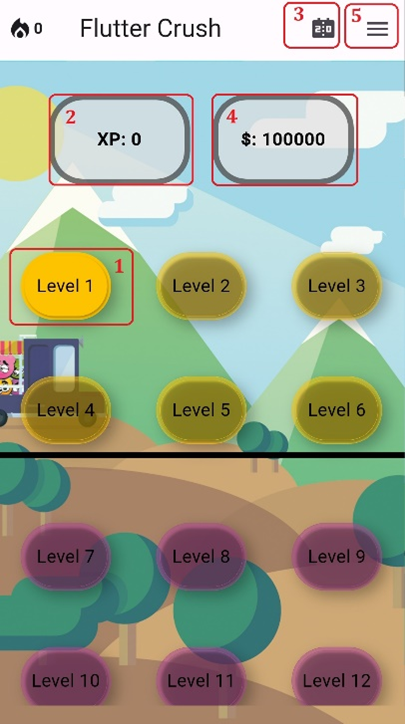
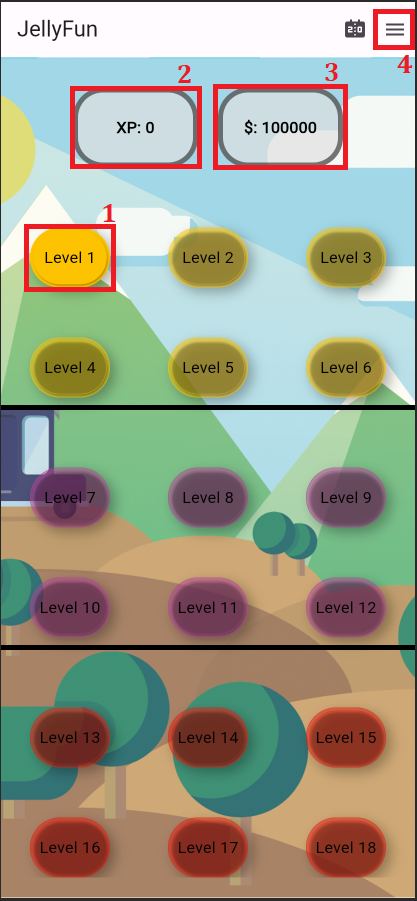
Jellies now not -1 possible anymore

diff --git a/lib/game_widgets/game_level_button.dart b/lib/game_widgets/game_level_button.dart
@@ -36,7 +36,6 @@ class GameLevelButton extends StatelessWidget {
   final lvlPrice = 500;
   static const tntPrice = 100;
   static const minePrice = 200;
-  static const wrappedPrice = 1000;
 
   @override
   Widget build(BuildContext context) {
@@ -127,7 +126,6 @@ class GameLevelButton extends StatelessWidget {
             ? AlertDialog(
                 title: const Text('Level starten'),
                 content: const Wrap(
-                  //ToDo: Remove Const, and enable power ups
                   children: [
                     Text('Wollen Sie das aktuelle Level starten?'),
                   ],
@@ -149,8 +147,7 @@ class GameLevelButton extends StatelessWidget {
                     Align(
                       alignment: Alignment.center,
                       child: Text(
-                        'Um einen Booster auszuwählen, klicken Sie auf den entsprechenden Button, '
-                        'oder starten Sie das Spiel ohne einen Booster indem Sie auf "Spiel starten" klicken',
+                        'Um einen Booster auszuwählen klicke bitte auf den entsprechenden Button oder starte das Spiel ohne Booster indem du auf "Spiel starten" klickst.',
                         textAlign: TextAlign.center, // Center align the text
                       ),
                     )
@@ -203,34 +200,34 @@ class GameLevelButton extends StatelessWidget {
 
   Future<void> buyPowerUp(item, powerUpPrice, CoinBloc coinBloc, ReportingBloc reportingBloc,
       GameBloc gameBloc, BuildContext context) async {
-    if (coinBloc.state.amount >= powerUpPrice) {
-      final SharedPreferences prefs = await SharedPreferences.getInstance();
-      prefs.setString("powerUp", item);
-      if (item.contains("Clear")) {
-        prefs.setInt("stripeJelly", stripeJelly - 1);
-      } else if (item.contains("Rainbow")) {
-        prefs.setInt("buntJelly", buntJelly - 1);
-      }
+    final SharedPreferences prefs = await SharedPreferences.getInstance();
+    prefs.setString("powerUp", item);
+    if (item.contains("Clear") && stripeJelly > 0) {
+      prefs.setInt("stripeJelly", stripeJelly - 1);
+    } else if (item.contains("Rainbow") && buntJelly > 0) {
+      prefs.setInt("buntJelly", buntJelly - 1);
+    } else if (coinBloc.state.amount >= powerUpPrice) {
       coinBloc.add(RemoveCoinsEvent(powerUpPrice));
-      Navigator.pop(context, 'OK');
-      await openGame(reportingBloc, gameBloc, prefs, context);
     } else {
       showDialog(
           context: context,
           builder: (BuildContext context) => AlertDialog(
-                title: const Text('Nicht genug Münzen um dieses PowerUp zu kaufen'),
-                content: const Text('Sie können Münzen durch Spielen der Levels erhalten'),
-                elevation: 24,
-                shape: const RoundedRectangleBorder(
-                    borderRadius: BorderRadius.all(Radius.circular(16))),
-                actions: <Widget>[
-                  TextButton(
-                    onPressed: () => {Navigator.pop(context, 'Ok')},
-                    child: const Text('OK'),
-                  )
-                ],
-              ));
+            title: const Text('Nicht genug Münzen um dieses PowerUp zu kaufen'),
+            content: const Text('Sie können Münzen durch Spielen der Levels erhalten'),
+            elevation: 24,
+            shape: const RoundedRectangleBorder(
+                borderRadius: BorderRadius.all(Radius.circular(16))),
+            actions: <Widget>[
+              TextButton(
+                onPressed: () => {Navigator.pop(context, 'Ok')},
+                child: const Text('OK'),
+              )
+            ],
+          ));
+      return;
     }
+    Navigator.pop(context, 'OK');
+    await openGame(reportingBloc, gameBloc, prefs, context);
   }
 
   void showBuyLevelDialog(LevelBloc levelBloc, CoinBloc coinBloc,

diff --git a/lib/pages/home_page.dart b/lib/pages/home_page.dart
@@ -250,7 +250,9 @@ class _HomePageState extends State<HomePage>
                                                 borderRadius: 50.0,
                                                 levelNumber: levelNumber + 1,
                                                 color: darkPatternsState
-                                                        is DarkPatternsDeactivatedState
+                                                            is! DarkPatternsActivatedState &&
+                                                        darkPatternsState
+                                                            is! DarkPatternsCollectionState
                                                     ? AppColors.getColorLevel(1)
                                                     : AppColors.getColorLevel(levelNumber + 1),
                                                 buntJelly: buntJelly,
@@ -331,6 +333,7 @@ class _HomePageState extends State<HomePage>
                 },
                 child: ListTile(
                   enabled: true,
+                  //ToDo: change to dailyRewardsCollected
                   // enabled: !dailyRewardCollected,
                   leading: const Icon(Icons.card_giftcard),
                   title: const Text('Tägliche Belohnung'),
@@ -408,9 +411,9 @@ class _HomePageState extends State<HomePage>
       sp.setInt("buntJelly", buntJelly += todaysAmount);
     } else if (todaysType.contains('gestreift')) {
       sp.setInt("stripeJelly", stripeJelly += todaysAmount);
-    } else if (todaysType.contains("XP")){
+    } else if (todaysType.contains("XP")) {
       flutter_bloc.BlocProvider.of<XpBloc>(context).add(AddXpEvent(todaysAmount));
-    } else if (todaysType.contains("\$")){
+    } else if (todaysType.contains("\$")) {
       flutter_bloc.BlocProvider.of<CoinBloc>(context).add(AddCoinsEvent(todaysAmount));
     }
   }
@@ -442,17 +445,15 @@ class _HomePageState extends State<HomePage>
             title: const Text('Deine tägliche Belohnung'),
             content: todaysType.contains('Sonderjelly')
                 ? Wrap(children: [
-                    Text('Heute hast du $todaysAmount $todaysType'),
-                    todaysType.contains('bunt')
-                        ? Image.asset(
-                            'assets/images/bombs/rainbow_fish.png',
-                            height: 30,
-                          )
-                        : Image.asset(
-                            'assets/images/bombs/fish_1.png',
-                            height: 30,
-                          ),
-                    const Text(' erhalten. Komm morgen wieder!'),
+                    Text('Heute hast du $todaysAmount $todaysType erhalten. Komm morgen wieder!'),
+                    Center(
+                      child: Image.asset(
+                        todaysType.contains('bunt')
+                            ? 'assets/images/bombs/rainbow_fish.png'
+                            : 'assets/images/bombs/fish_1.png',
+                        height: 30,
+                      ),
+                    ),
                   ])
                 : Text('Heute hast du $todaysAmount $todaysType erhalten. Komm morgen wieder!'),
             actions: [

diff --git a/lib/controllers/unity/unity_screen.dart b/lib/controllers/unity/unity_screen.dart
@@ -54,7 +54,6 @@ class _UnityScreenState extends State<UnityScreen> {
   bool gameOver = false;
   late bool _gameOverReceived;
   bool fabVisible = true;
-  late StreamSubscription _gameOverSubscription;
 
   @override
   void initState() {
@@ -84,14 +83,10 @@ class _UnityScreenState extends State<UnityScreen> {
 
     // Now that the context is available, retrieve the gameBloc
     gameBloc = BlocProvider.of<GameBloc>(context);
-
-    // Listen to "game over" notification
-    _gameOverSubscription = gameIsOver.listen(showGameOver);
   }
 
   @override
   dispose() {
-    _gameOverSubscription.cancel();
     unityWidgetController?.dispose();
     super.dispose();
   }
@@ -209,23 +204,22 @@ class _UnityScreenState extends State<UnityScreen> {
     setState(() {
       fabVisible = false;
     });
+    var xpCoins = 0;
+    if (message is int) {
+      xpCoins = lvl * message;
+    } else {
+      xpCoins = lvl * int.parse(message.replaceAll(RegExp(r'[^0-9]'), ''));
+    }
     if (darkPatternsBloc.state is DarkPatternsActivatedState ||
         darkPatternsBloc.state is DarkPatternsRewardsState) {
-      var xpCoins = 0;
-      if (message is int) {
-        xpCoins = lvl * message;
-      } else {
-        xpCoins = lvl * int.parse(message.replaceAll(RegExp(r'[^0-9]'), ''));
-      }
       showFortuneWheel(xpCoins);
     } else if (darkPatternsBloc.state is DarkPatternsDeactivatedState) {
       Future.delayed(const Duration(seconds: 3), () {
         Navigator.of(context).pop();
       });
     } else {
-      Future.delayed(const Duration(seconds: 3), () {
-        Navigator.of(context).pop();
-      });
+      gameBloc.gameOver(xpCoins);
+      showGameOver(true);
     }
     gameOver = true;
   }
@@ -336,6 +330,7 @@ class _UnityScreenState extends State<UnityScreen> {
     if (_gameOverReceived) {
       return;
     }
+    await Future.delayed(const Duration(seconds: 4));
     _gameOverReceived = true;
     _gameSplash = OverlayEntry(
         opaque: false,

diff --git a/lib/pages/info_page.dart b/lib/pages/info_page.dart
@@ -113,7 +113,7 @@ Nutze Booster bzw. Sonderjellies, um schwierige Level zu meistern. Diese können
               '''Schalte neue Level und Herausforderungen frei, indem du im Spiel fortschreitest.'''),
           const Text("8.	Startbildschirm: ", style: TextStyle(fontWeight: FontWeight.bold)),
           const Text(
-              '''Im Hauptmenü siehst du welche Level du bereits freigespielt hast (Kästchen hat eine deckende Farbe (1)), wie viele XP du hast (2)– diese bestimmten auch den Rang in der Highscore-Tafel (3), sowie die Anzahl an Münzen (4) (diese kannst du nutzen um Booster zu kaufen). Im Menü (5) kannst du diese Instruktionen jederzeit erneut durchlesen, solltest du etwas vergessen haben. 
+              '''Im Hauptmenü siehst du welche Level du bereits freigespielt hast (Kästchen hat eine deckende Farbe (1)), wie viele XP du hast (2), sowie die Anzahl an Münzen (3) (diese kannst du nutzen um Booster zu kaufen). Im Menü (4) kannst du diese Instruktionen jederzeit erneut durchlesen, solltest du etwas vergessen haben. 
           '''),
           const Image(image: AssetImage('assets/instructions/ins_5.png'), fit: BoxFit.cover),
           const SizedBox(width: 10, height: 20),

diff --git a/lib/persistence/dark_patterns_service.dart b/lib/persistence/dark_patterns_service.dart
@@ -11,7 +11,7 @@ class DarkPatternsService {
     final SharedPreferences prefs = await SharedPreferences.getInstance();
     int? shouldDarkPatternsBeVisible = prefs.getInt(darkPatterns);
     if (shouldDarkPatternsBeVisible == null) {
-      shouldDarkPatternsBeVisible = 1;//ToDo: darkPatternsRandomValue;
+      shouldDarkPatternsBeVisible = 1;//ToDo: Change Before Release!!! darkPatternsRandomValue;
       prefs.setInt(darkPatterns, shouldDarkPatternsBeVisible);
     }
     return shouldDarkPatternsBeVisible;

diff --git a/lib/helpers/device_helper.dart b/lib/helpers/device_helper.dart
@@ -31,7 +31,6 @@ class DeviceHelper {
   static Future<bool> isMobile() async {
     DeviceInfoPlugin deviceInfoPlugin = DeviceInfoPlugin();
     var platform = (await deviceInfoPlugin.webBrowserInfo).platform!;
-    print(platform);
     if (equalsIgnoreCase(platform, "macOS") ||
         equalsIgnoreCase(platform, "Win32") ||
         equalsIgnoreCase(platform, "Win32") ||

diff --git a/lib/main.dart b/lib/main.dart
@@ -17,7 +17,7 @@ void main() async {
     WidgetsFlutterBinding.ensureInitialized();
     usePathUrlStrategy();
     SystemChrome.setEnabledSystemUIMode(SystemUiMode.manual, overlays: []);
-    if (!await DeviceHelper.isMobile()) {
+    if (!await DeviceHelper.isMobile()) {//ToDo: activate for release!!!!!!!
       // runApp(const NonMobilePage());
       // return;
     }

diff --git a/lib/services/firebase_messaging.dart b/lib/services/firebase_messaging.dart
@@ -136,7 +136,6 @@ class FirebaseMessagingWeb {
     var request = Permission.notification.request();
     await html.window.navigator.permissions!.query({"name": "push", "userVisibleOnly": true});
     if (!await request.isGranted) {
-      print("Permission not granted");
       Permission.notification.request();
     }
   }
